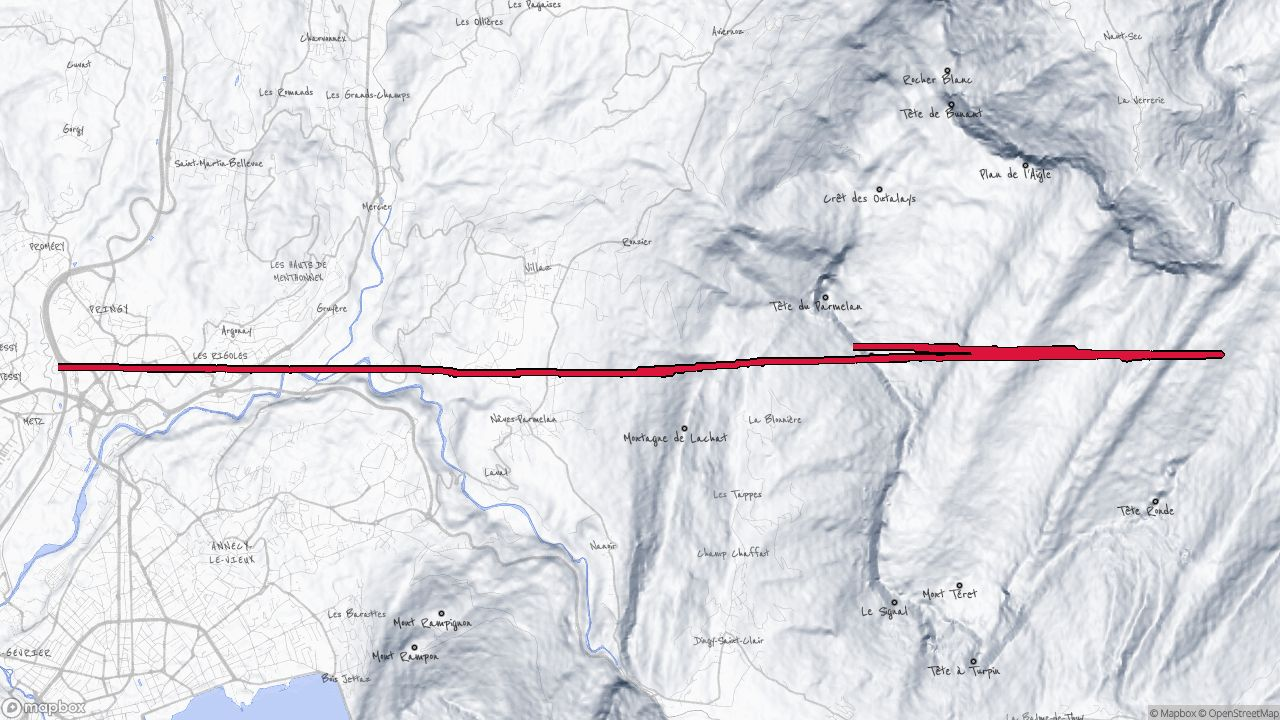
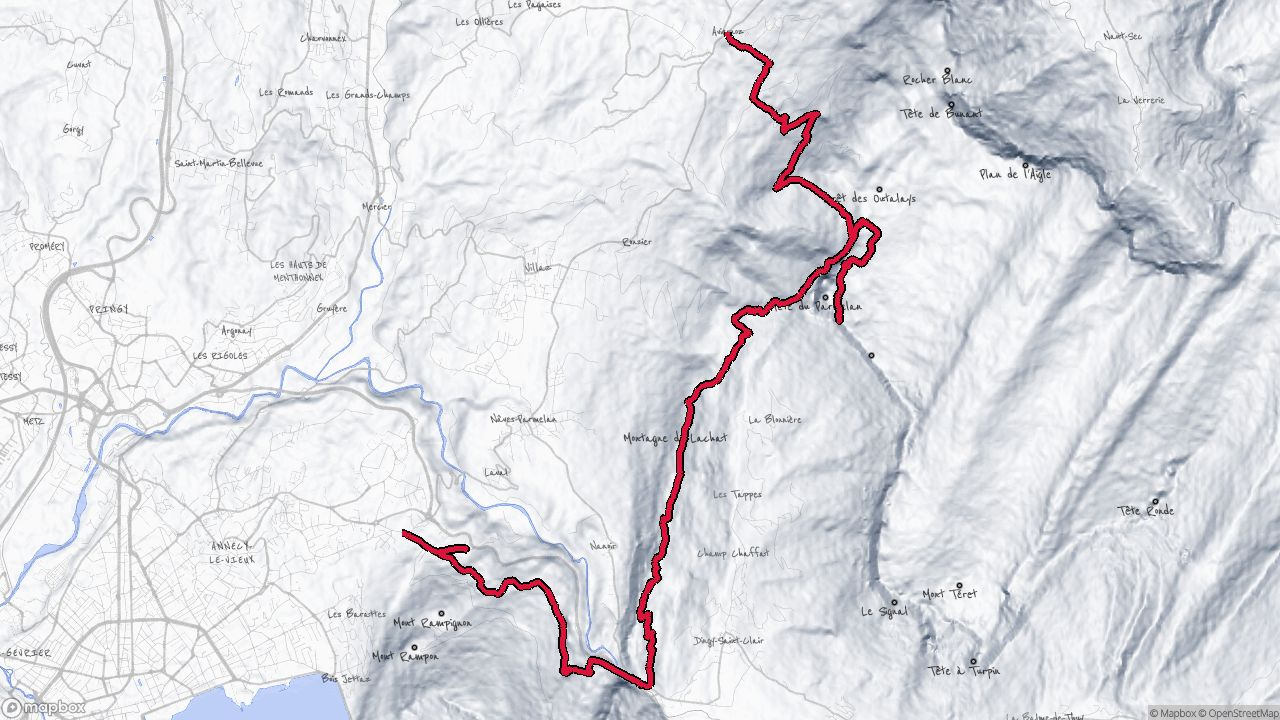
regenerate fallback routes

diff --git a/generate_landing_fallback.py b/generate_landing_fallback.py
@@ -35,7 +35,8 @@ def optimal_bounds(route_bounds):
 
 
 def mercator_x(lon):
-    return lon
+    # Same units as mercator_y (unit-sphere Web Mercator, as used by D3/Mapbox)
+    return math.radians(lon)
 
 
 def mercator_y(lat):
